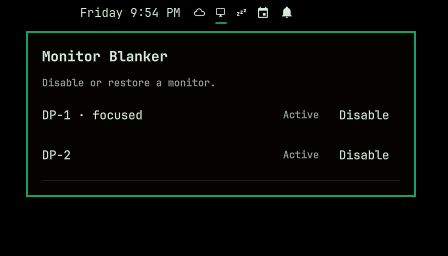
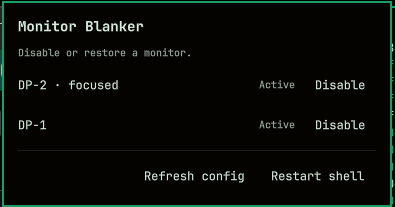
docs(monitor-blanker): refresh marketplace preview
Show the stable Disable/Restore panel with Refresh config and Restart shell actions.

Changed region(s): [[0.0, 0.0, 1.0, 1.0], [0.3646, 0.8116, 0.638, 0.8986], [0.6684, 0.8116, 0.9418, 0.8696]]

diff --git a/sessions/2026-09-06-omarchy-monitor-controls.md b/sessions/2026-09-06-omarchy-monitor-controls.md
@@ -58,6 +58,7 @@ Restored the Omarchy monitor blanker bar widget to stable Disable/Restore contro
 - Made edge attachment mandatory on drag release so monitors cannot be left floating apart on the canvas.
 - Reverted the arrangement editor and related persistence to the stable Disable/Restore implementation; retained only Refresh config and Restart shell controls.
 - Removed stale changelog claims for friendly display identity, resolution/refresh details, rotation, and saved arrangement behavior.
+- Replaced `preview.png` with the user-provided stable Disable/Restore panel screenshot.
 - `qmllint` was not installed in the environment.
 
 ## Next Steps

diff --git a/CHANGELOG.md b/CHANGELOG.md
@@ -4,10 +4,11 @@
 
 ### Added
 
-- Add a preview screenshot to the repository and README.
+- Add a preview screenshot showing the stable Disable/Restore panel.
 
 ### Changed
 
+- Update the preview screenshot to show Refresh config and Restart shell actions.
 - Use the namespaced `io.github.omarchy.monitor-blanker` plugin ID required by
   the marketplace, without exposing the maintainer handle.
 - Clarify that the plugin requires no elevated privileges.
